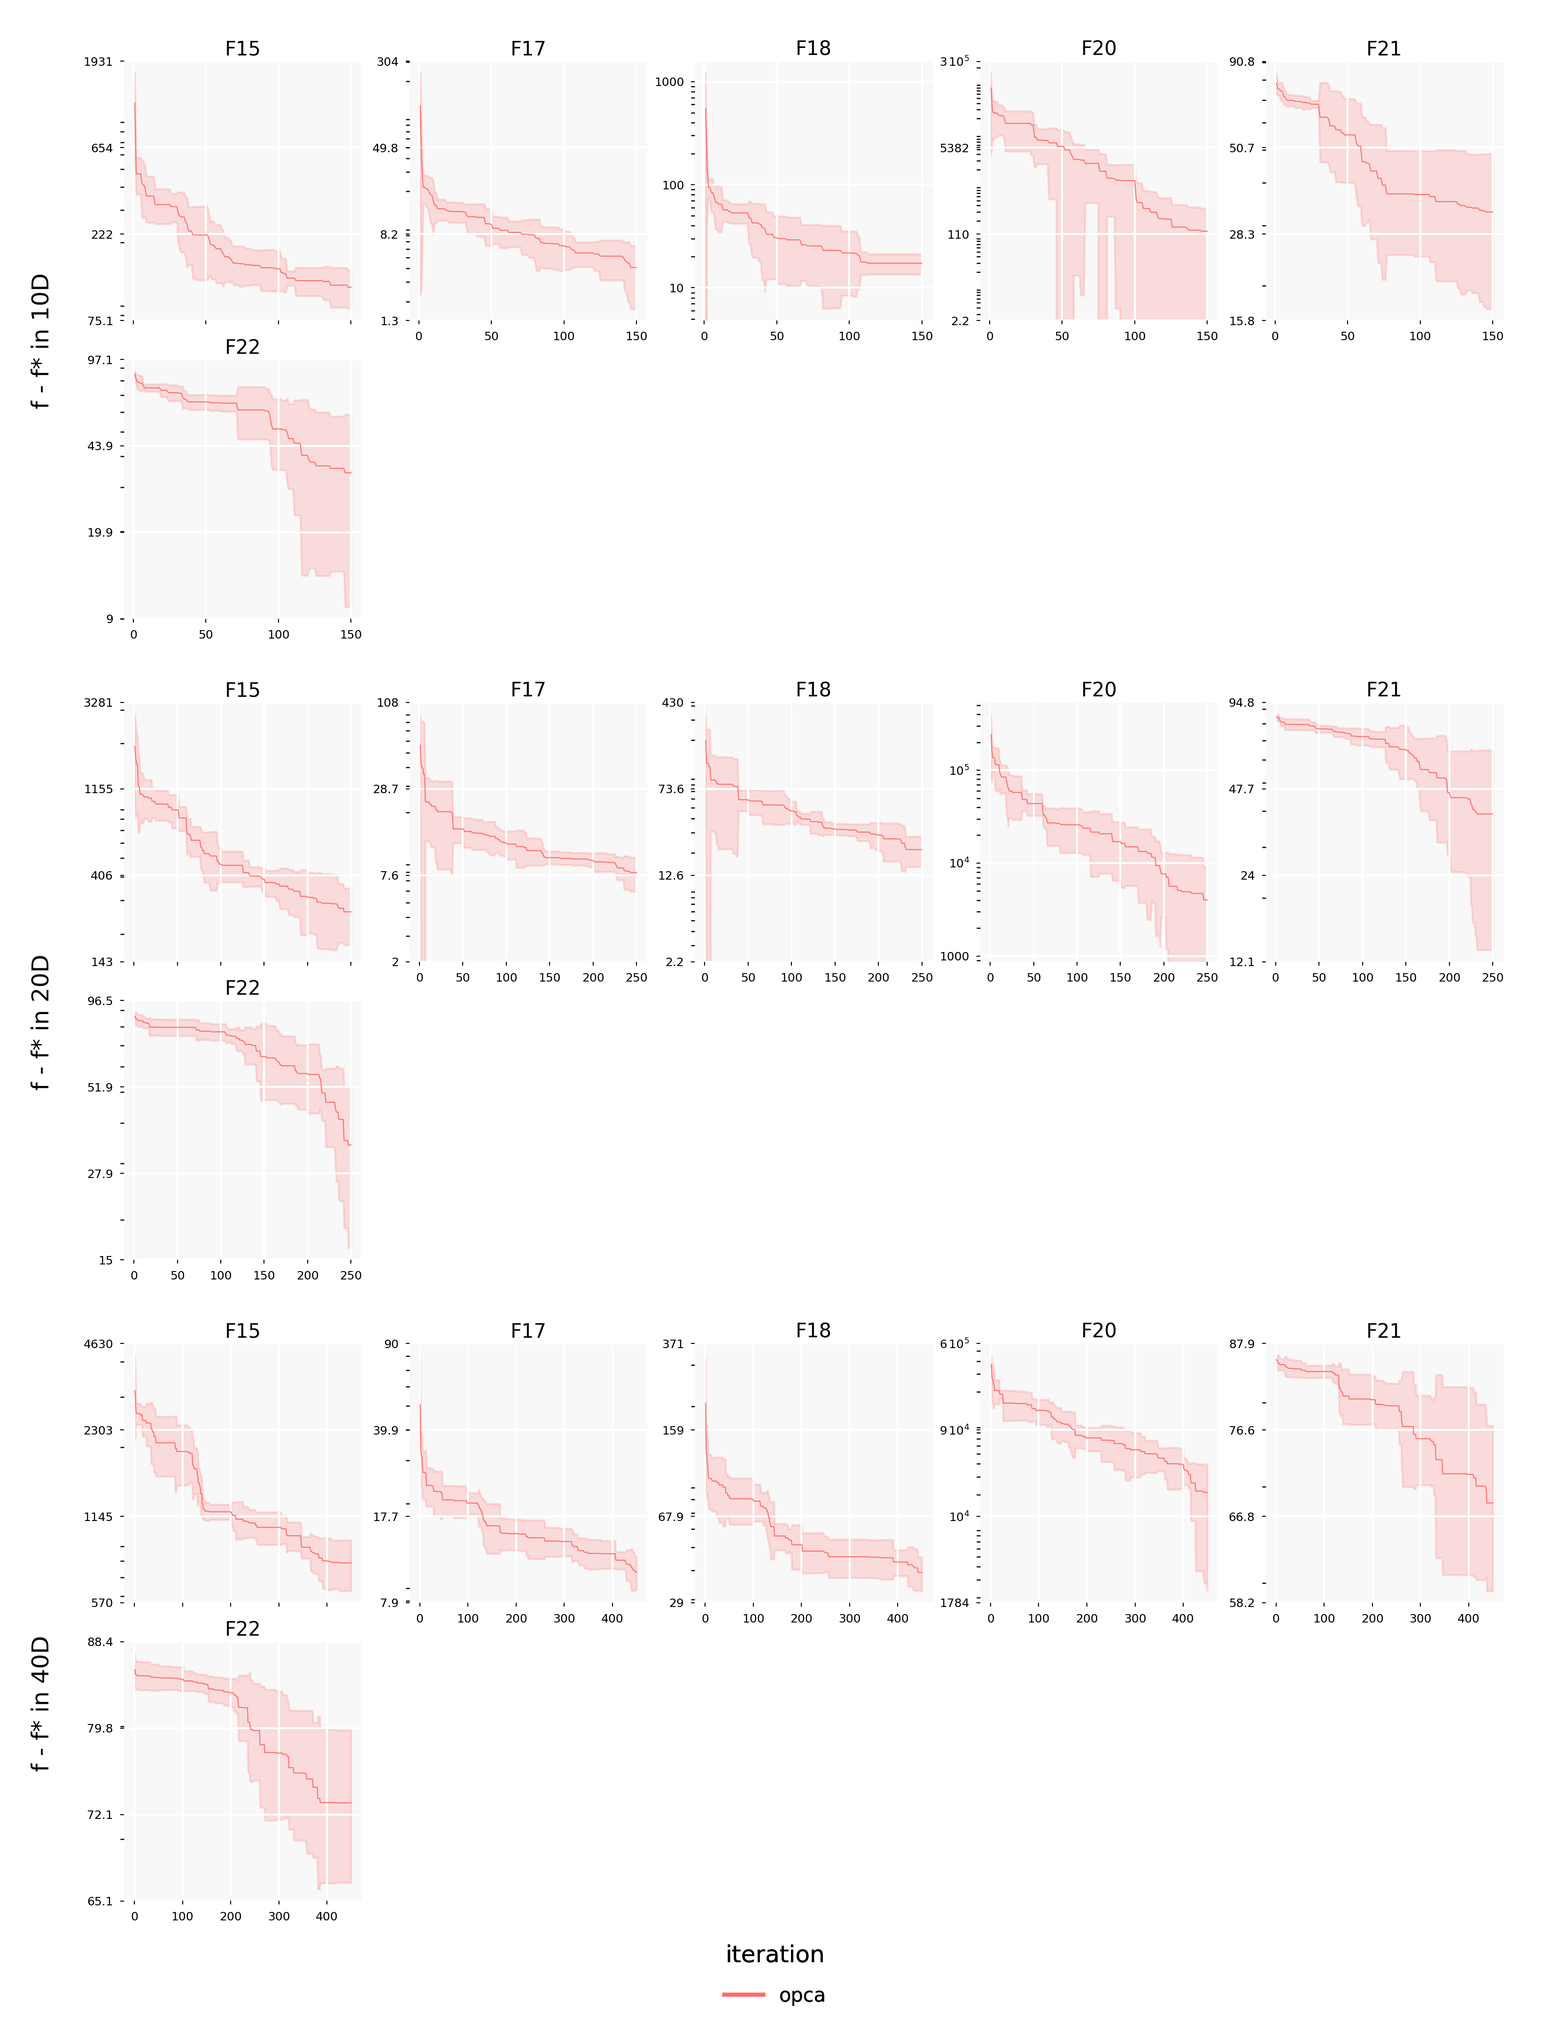
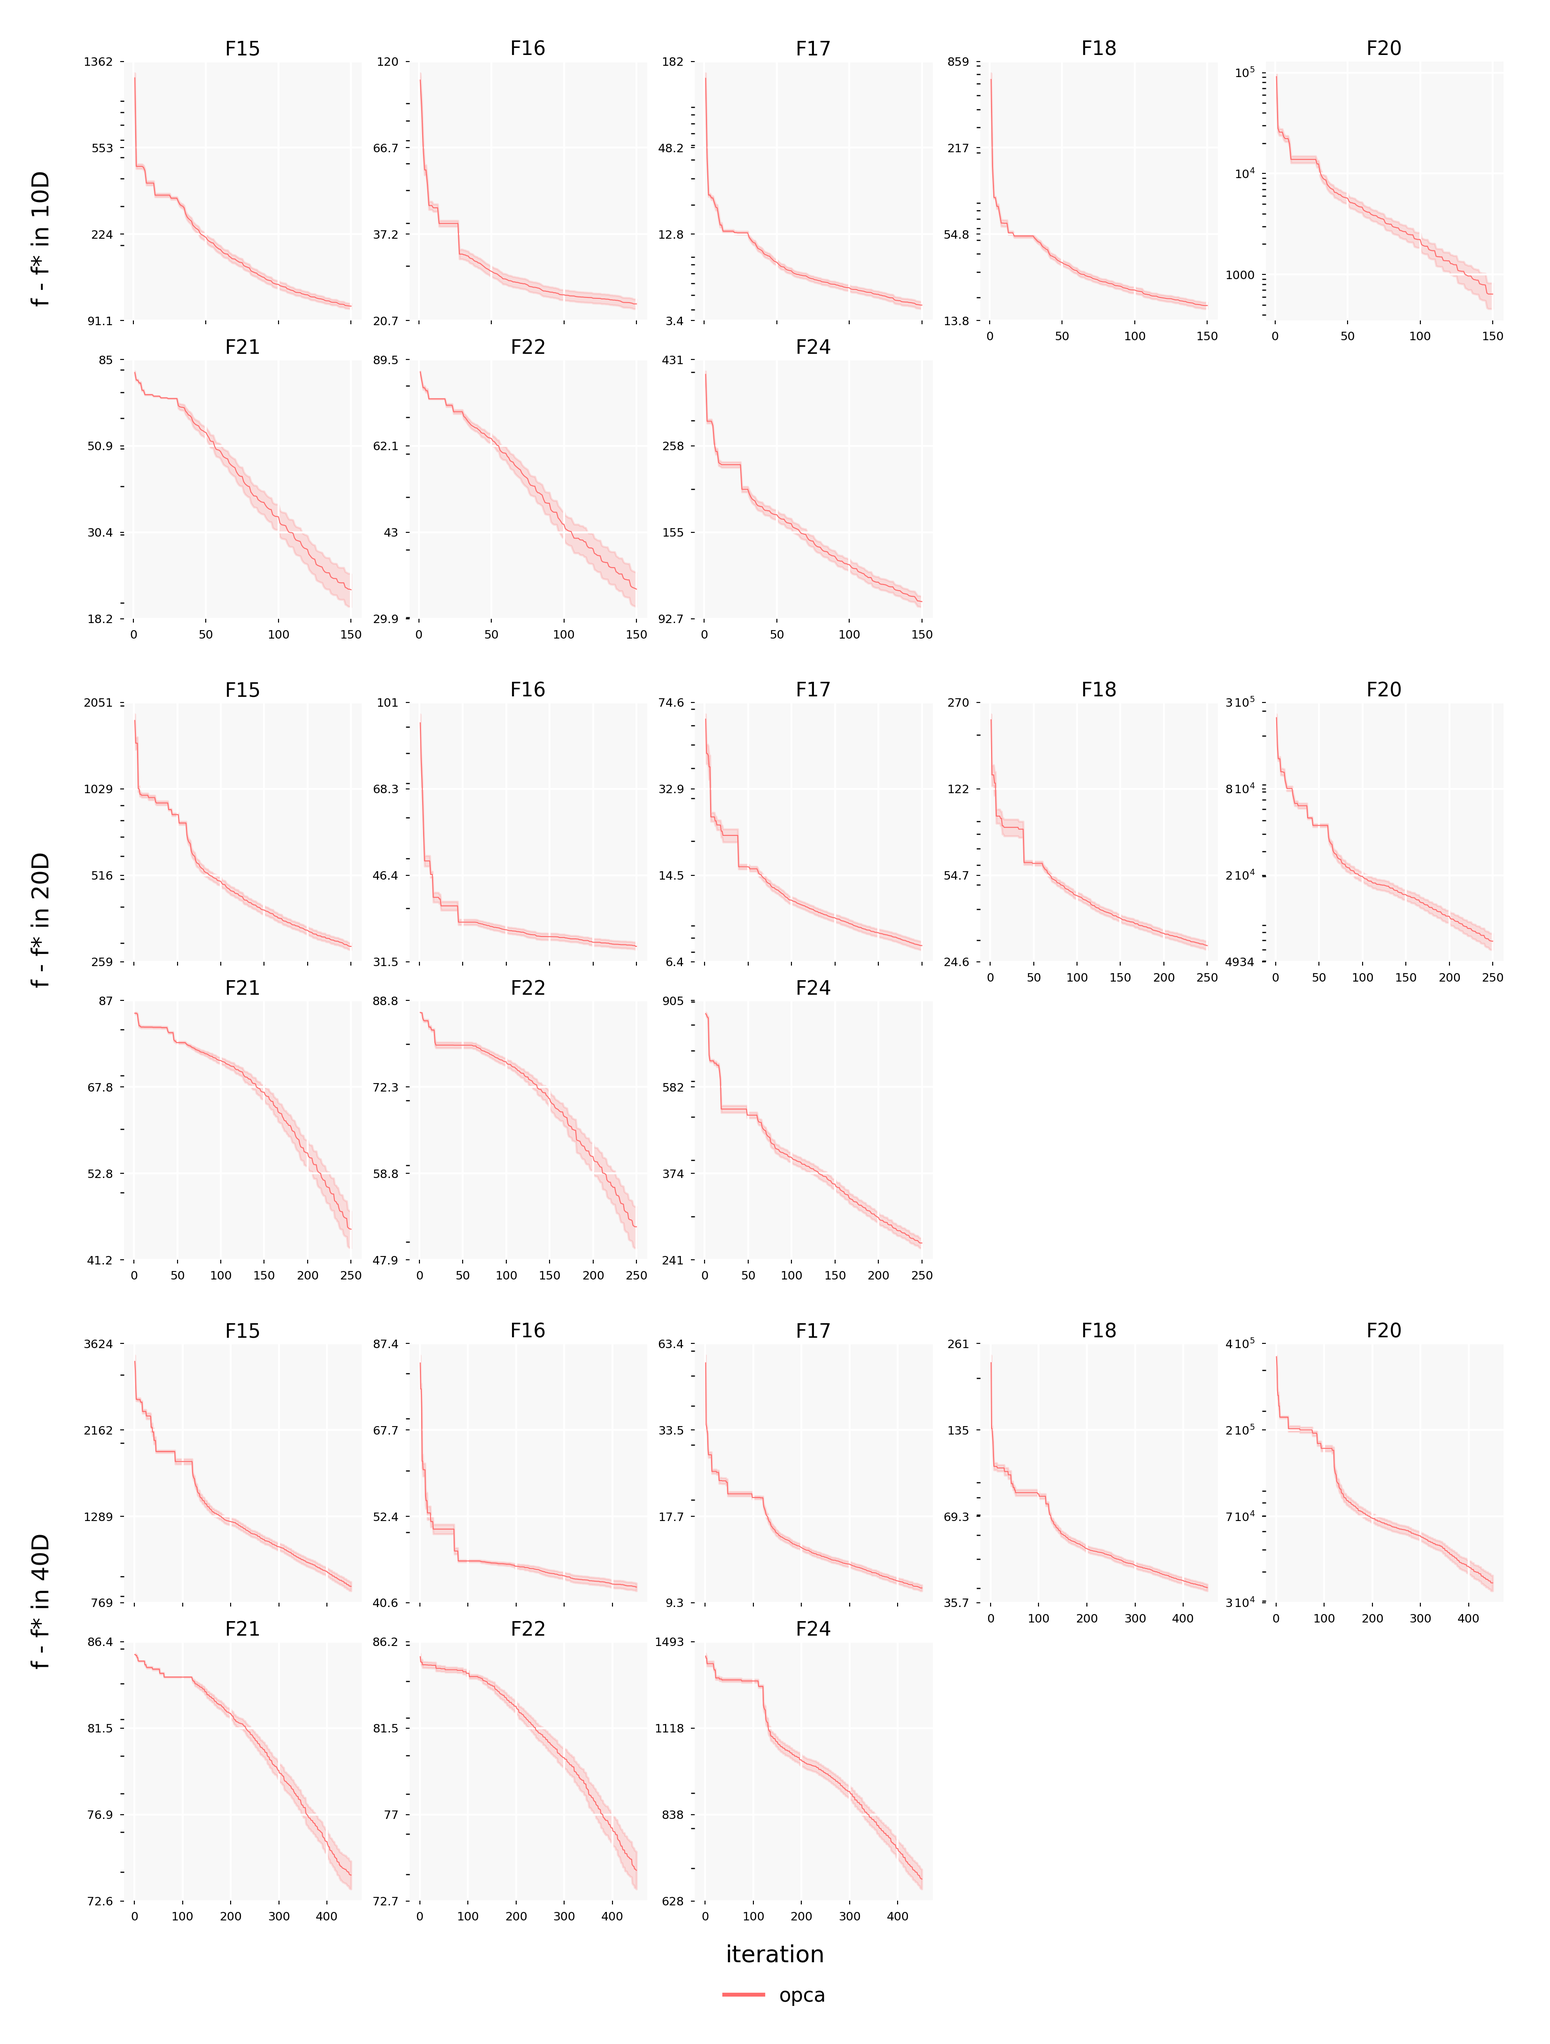
feat(tuning): conducted OPCABO hyperparameter tuning

diff --git a/Algorithms/Experiment/ExperimentVisualizer.py b/Algorithms/Experiment/ExperimentVisualizer.py
@@ -63,6 +63,7 @@ class ExperimentVisualizer:
 
         self.load_data()
         self.plot_convergence()
+        self.plot_times()
 
     def load_data(self):
         """Load experiment data using IOHinspector."""
@@ -139,26 +140,26 @@ class ExperimentVisualizer:
                     self._plot_individual_convergence(batch_size, dimension, function, ax)
 
                 # Add vertical text labels on the left (one for each dimension)
-                y_pos = 1 - (d_idx + 0.5) / len(dimensions)  # Center vertically for each dimension section
+                y_pos = 1 - (d_idx * 0.95 + 0.5) / len(dimensions)  # Center vertically for each dimension section
                 fig.text(0.02, y_pos, f"f - f* in {dimension}D",
-                         rotation=90, verticalalignment="center", fontsize=12, fontweight="normal")
+                         rotation=90, verticalalignment="center", fontsize=13, fontweight="normal")
 
-                # Add horizontal text label at the bottom
-                fig.text(0.5, 0.04, "iteration", horizontalalignment="center", fontsize=12, fontweight="normal")
+            # Add horizontal text label at the bottom
+            fig.text(0.5, 0.03, "iteration", horizontalalignment="center", fontsize=13, fontweight="normal")
 
-                algorithms = self.algorithms or self.data["algorithm_name"].unique().sort().to_list()
+            algorithms = self.algorithms or self.data["algorithm_name"].unique().sort().to_list()
 
-                legend_handles = []
-                for i, algorithm in enumerate(algorithms):
-                    handle = plt.Line2D([0], [0], color=self.colors[i], linewidth=2, label=algorithm)
-                    legend_handles.append(handle)
+            legend_handles = []
+            for i, algorithm in enumerate(algorithms):
+                handle = plt.Line2D([0], [0], color=self.colors[i], linewidth=2, label=algorithm)
+                legend_handles.append(handle)
 
-                fig.legend(handles=legend_handles, loc='lower center',
-                           bbox_to_anchor=(0.5, 0.01), ncol=len(algorithms),
-                           frameon=False, fontsize=10)
+            fig.legend(handles=legend_handles, loc="lower center",
+                       bbox_to_anchor=(0.5, 0.00), ncol=len(algorithms),
+                       frameon=False, fontsize=10)
 
-                if self.save_figures:
-                    plt.savefig(os.path.join(self.output_dir, f"convergence-b{batch_size}.png"), format="png")
+            if self.save_figures:
+                plt.savefig(os.path.join(self.output_dir, f"convergence-b{batch_size}.png"), format="png")
 
     def _plot_individual_convergence(self, batch_size: int, dimension: int, function: int, ax: plt.Axes):
         """Plot convergence graph for a specific axis.
@@ -291,21 +292,89 @@ class ExperimentVisualizer:
 
         ax.set_title(f"F{function}", fontsize=10, fontweight="normal", pad=3)
 
-    def plot_execution_times(self) -> Optional[plt.Figure]:
-        """Plot execution times for each algorithm, dimension, and function.
+    def plot_times(self):
+        """Plot execution times for each dimension, algorithm, and function."""
 
-        Returns:
-            Matplotlib figure object or None if execution time data is missing.
-        """
-        pass
+        fig_size_margin = (1, 1)
+        fig_size_cell = (7, 8)
 
-    def analyze_algorithm_comparison(self, df: pl.DataFrame) -> pl.DataFrame:
-        """Analyze and compare the performance of Vanilla BO and PCA-BO.
+        batch_sizes = self.batch_sizes or self.data["batch_size"].unique()
+        dimensions = self.dimensions or self.data["dimension"].unique()
+        functions = self.functions or self.data["function_id"].unique()
+
+        fig_size = (fig_size_margin[0] + fig_size_cell[0] * len(dimensions),
+                    fig_size_margin[1] + fig_size_cell[1])
+
+        # Create individual plots for different batch sizes
+        for batch_size in batch_sizes:
+            fig = plt.figure(figsize=fig_size, dpi=self.dpi)
+            fig.subplots_adjust(left=0.10, right=0.97, top=0.97, bottom=0.10)
+
+            # Create a grid of subplots for different dimensions
+            dims_gs = gridspec.GridSpec(1, len(dimensions), wspace=0.05)
+
+            ax0 = None
+            # For each dimension section - fill cells
+            for d_idx, dimension in enumerate(dimensions):
+                ax = fig.add_subplot(dims_gs[0, d_idx])
+                if ax0 is None:
+                    ax0 = ax
+                else:
+                    ax.sharey(ax0)
+
+                # Hide y-axis if not the first in row
+                if d_idx > 0:
+                    ax.tick_params(labelleft=False)
+
+                self._plot_individual_times(batch_size, dimension, ax)
+
+                algorithms = self.algorithms or self.data["algorithm_name"].unique().sort().to_list()
+
+                legend_handles = []
+                for i, algorithm in enumerate(algorithms):
+                    handle = plt.Line2D([0], [0], color=self.colors[i], linewidth=2, label=algorithm)
+                    legend_handles.append(handle)
+
+                fig.legend(handles=legend_handles, loc="lower center",
+                           bbox_to_anchor=(0.5, 0.01), ncol=len(algorithms),
+                           frameon=False, fontsize=10)
+
+                if self.save_figures:
+                    plt.savefig(os.path.join(self.output_dir, f"times-b{batch_size}.png"), format="png")
+
+    def _plot_individual_times(self, batch_size: int, dimension: int, ax: plt.Axes):
+        """Plot convergence graph for a specific axis.
 
         Args:
-            df: DataFrame containing experiment data.
-
-        Returns:
-            pl.DataFrame with comparison statistics.
+            batch_size: Batch size.
+            dimension: Dimension.
+            ax: Matplotlib axis to plot on.
         """
-        pass
+        def integer_or_scientific_formatter(x, pos):
+            if x == 0:
+                return "0"
+            elif x >= 1e4 or x <= 1e-2:
+                # Use compact scientific notation
+                exp = int(np.floor(np.log10(abs(x))))
+                mantissa = x / (10 ** exp)
+                mantissa_rounded = int(round(mantissa))
+                if mantissa_rounded == 1:
+                    return f"$10^{{{exp}}}$"
+                else:
+                    return f"${mantissa_rounded}\\,10^{{{exp}}}$"
+            elif x >= 1e2:
+                return f"{int(round(x))}"
+            else:
+                # For all other numbers, show as integer if close to one, otherwise 1 decimal place
+                if abs(x - round(x)) < 0.05:
+                    return f"{int(round(x))}"
+                else:
+                    return f"{x:.1f}"
+
+        ax.yaxis.set_major_formatter(FuncFormatter(integer_or_scientific_formatter))
+        ax.yaxis.set_minor_formatter(FuncFormatter(lambda x, pos: ''))
+        ax.tick_params(axis="both", labelsize=6, length=2, width=0.5)
+
+        ax.set_facecolor("#f8f8f8")
+        ax.grid(True, color="white", linewidth=1)
+        ax.spines[["top", "right", "bottom", "left"]].set_visible(False)

diff --git a/rem_bad_exp.py b/rem_bad_exp.py
@@ -1,0 +1,84 @@
+#!/usr/bin/env python3
+import os
+import shutil
+from pathlib import Path
+
+
+def count_lines_in_file(file_path):
+    """Count lines in a file, handling potential encoding issues."""
+    try:
+        with open(file_path, 'r', encoding='utf-8') as f:
+            return sum(1 for _ in f)
+    except UnicodeDecodeError:
+        # Try with different encoding if UTF-8 fails
+        with open(file_path, 'r', encoding='latin-1') as f:
+            return sum(1 for _ in f)
+
+
+def main():
+    meta_bo_path = Path("meta-bo")
+
+    if not meta_bo_path.exists():
+        print(f"Directory '{meta_bo_path}' does not exist")
+        return
+
+    valid_line_counts = {151, 251, 451}
+    deleted_count = 0
+    kept_count = 0
+    error_count = 0
+
+    print(f"Scanning directories in {meta_bo_path}...")
+
+    # Iterate through all subdirectories in meta-bo
+    for subdir in meta_bo_path.iterdir():
+        if not subdir.is_dir():
+            continue
+
+        try:
+            # Find the nested directory (should be only one)
+            nested_dirs = [d for d in subdir.iterdir() if d.is_dir()]
+
+            if len(nested_dirs) != 1:
+                print(f"Warning: {subdir} doesn't have exactly one subdirectory, skipping")
+                error_count += 1
+                continue
+
+            nested_dir = nested_dirs[0]
+
+            # Find .dat files in the nested directory
+            dat_files = list(nested_dir.glob("*.dat"))
+
+            if len(dat_files) != 1:
+                print(f"Warning: {nested_dir} doesn't have exactly one .dat file, skipping")
+                error_count += 1
+                continue
+
+            dat_file = dat_files[0]
+            line_count = count_lines_in_file(dat_file)
+
+            # Check if line count matches valid counts
+            if line_count not in valid_line_counts:
+                print(f"Deleting {subdir} (dat file has {line_count} lines)")
+                shutil.rmtree(subdir)
+                deleted_count += 1
+            else:
+                print(f"Keeping {subdir} (dat file has {line_count} lines)")
+                kept_count += 1
+
+        except Exception as e:
+            print(f"Error processing {subdir}: {e}")
+            error_count += 1
+
+    print(f"\nSummary:")
+    print(f"Directories deleted: {deleted_count}")
+    print(f"Directories kept: {kept_count}")
+    print(f"Errors encountered: {error_count}")
+
+
+if __name__ == "__main__":
+    # Safety confirmation
+    response = input("This will permanently delete directories. Are you sure? (yes/no): ")
+    if response.lower() == 'yes':
+        main()
+    else:
+        print("Operation cancelled.")

diff --git a/Algorithms/BayesianOptimization/O_PCA_BO.py b/Algorithms/BayesianOptimization/O_PCA_BO.py
@@ -77,9 +77,9 @@ class O_PCA_BO(AbstractBayesianOptimizer):
             ortho_samples: int = 3,
             n_components: int = 0,
             var_threshold: float = 0.95,
-            gpr_p: float = 0.5,
-            gpr_val_factor: float = 0.5,
-            onorm_factor: float = 2.0,
+            gpr_p: float = 0.589013,
+            gpr_val_factor: float = 0.100655,
+            onorm_factor: float = 3.027467,
             acquisition_function: str = "expected_improvement",
             random_seed: int = 69,
             torch_config: Optional[Dict[str, Any]] = None,
@@ -101,11 +101,12 @@ class O_PCA_BO(AbstractBayesianOptimizer):
             n_components (int, optional): Number of principal components to use. If 0, determined
                                           by var_threshold. Defaults to 0.
             var_threshold (float, optional): Variance threshold for selecting components. Defaults to 0.95.
-            gpr_p (float, optional): Percentage of ranked points to use in GPR fitting. Range [0.3, 1]. Defaults to 0.5.
+            gpr_p (float, optional): Percentage of ranked points to use in GPR fitting.
+                                     Range [0.3, 1]. Defaults to 0.589013.
             gpr_val_factor (float, optional): Relative influence of value rank to distance rank
-                                              in GPR fitting point selection. Range [0, 1]. Defaults to 0.5.
+                                              in GPR fitting point selection. Range [0, 1]. Defaults to 0.100655.
             onorm_factor (float, optional): O-norm sampling multiplier. Range [0, +inf].
-                                            0 for uniform sampling. Defaults to 2.0.
+                                            0 for uniform sampling. Defaults to 3.027467.
             acquisition_function (str): Acquisition function name. Defaults to "expected_improvement".
             random_seed (int, optional): Random seed for reproducibility. Defaults to 69.
             torch_config (Dict[str, Any], optional): gpu configuration.

diff --git a/Algorithms/Experiment/ExperimentRunner.py b/Algorithms/Experiment/ExperimentRunner.py
@@ -57,9 +57,9 @@ class ExperimentRunner:
         random_seed: int = 69,
         acquisition_function: str = "EI",
         var_threshold: float = 0.95,
-        gpr_p: float = 0.5,
-        gpr_val_factor: float = 0.5,
-        onorm_factor: float = 2.0,
+        gpr_p: float = 0.589013,
+        gpr_val_factor: float = 0.100655,
+        onorm_factor: float = 3.027467,
         root_dir: str = os.getcwd(),
         experiment_name: str = "experiment",
         torch_config: Optional[Dict[str, Any]] = None,
@@ -79,11 +79,12 @@ class ExperimentRunner:
             random_seed: Randomness seed.
             acquisition_function: Acquisition function name.
             var_threshold: PCA variance threshold.
-            gpr_p (float, optional): Percentage of ranked points to use in GPR fitting. Range [0.3, 1]. Defaults to 0.5.
+            gpr_p (float, optional): Percentage of ranked points to use in GPR fitting.
+                                     Range [0.3, 1]. Defaults to 0.589013.
             gpr_val_factor (float, optional): Relative influence of value rank to distance rank
-                                              in GPR fitting point selection. Range [0, 1]. Defaults to 0.5.
+                                              in GPR fitting point selection. Range [0, 1]. Defaults to 0.100655.
             onorm_factor (float, optional): O-norm sampling multiplier. Range [0, +inf].
-                                            0 for uniform sampling. Defaults to 2.0.
+                                            0 for uniform sampling. Defaults to 3.027467.
             root_dir: Root directory for experiment output dir.
             experiment_name: Name of the experiment dir.
             torch_config: gpu configuration.

diff --git a/main.py b/main.py
@@ -105,22 +105,22 @@ def parse_arguments():
     parser.add_argument(
         "--gpr_p",
         type=float,
-        default=0.5,
-        help="Percentage of ranked points to use in GPR fitting (default: 0.5)"
+        default=0.589013,
+        help="Percentage of ranked points to use in GPR fitting (default: 0.589013)"
     )
 
     parser.add_argument(
         "--gpr_val_factor",
         type=float,
-        default=0.5,
-        help="Relative influence of value rank to distance rank in GPR fitting point selection (default: 0.5)"
+        default=0.100655,
+        help="Relative influence of value rank to distance rank in GPR fitting point selection (default: 0.100655)"
     )
 
     parser.add_argument(
         "--onorm_factor",
         type=float,
-        default=2.0,
-        help="O-norm sampling multiplier (default: 2.0)"
+        default=3.027467,
+        help="O-norm sampling multiplier (default: 3.027467)"
     )
 
     parser.add_argument(

diff --git a/meta-bo/meta-bo-vis.py b/meta-bo/meta-bo-vis.py
@@ -1,12 +1,12 @@
 import matplotlib.pyplot as plt
-from mpl_toolkits.mplot3d import Axes3D
-import numpy as np
+import polars as pl
 
 from Algorithms.utils.experiment_loss import get_loss
 
 df = get_loss("meta-bo")
 
-print(df)
+with pl.Config(tbl_rows=200, tbl_cols=20):
+    print(df)
 
 # Extract data from polars dataframe
 x = df['gpr_p'].to_numpy()
